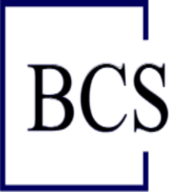
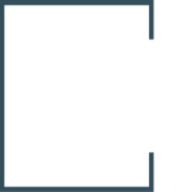
new images

Changed region(s): [[0.125, 0.3125, 0.9062, 0.7188], [0.0, 0.0, 0.8125, 1.0]]

diff --git a/components/main-nav.tsx b/components/main-nav.tsx
@@ -21,11 +21,10 @@ interface MobileLinkProps {
 
 const LogoImage = () => (
   <svg xmlns="http://www.w3.org/2000/svg" version="1.1" viewBox="0 0 816.8 651.3" width={80} height={80}>
-    <polyline points="644.1 133.7 644.1 7.8 8.2 7.8 8.2 643.7 644.1 643.7 644.1 517.7" fill="none" stroke="#030063" strokeWidth={20}/>
+    <polyline points="644.1 133.7 644.1 7.8 8.2 7.8 8.2 643.7 644.1 643.7 644.1 517.7" fill="none" stroke="#334f5b" strokeWidth={20}/>
     <path className="dark:fill-white" d="M130.4,198.1h128.9c25.3,0,44.7,5.6,58.1,16.7,13.4,11.1,20.1,25.1,20.1,41.9s-4.7,25.9-14,35.7c-9.4,9.8-23.5,17.5-42.3,23.2,23.3,4.9,40.8,12.6,52.4,23.2,11.6,10.5,17.5,23.8,17.5,39.9s-3.3,23.1-9.9,32.6c-6.6,9.5-17.7,17.5-33.1,24.1-15.4,6.6-33,9.9-52.6,9.9h-125.1v-12.5h20.4c6.1,0,10.6-1,13.5-3,2.8-2,4.3-4.3,4.3-6.9v-198.1c0-4.7-1.4-8.2-4.2-10.6-2.8-2.4-6.9-3.6-12.2-3.6h-21.7v-12.5ZM204.3,311.6h46.8c14.4,0,25.8-4.2,34.4-12.7,8.5-8.5,12.8-22.3,12.8-41.6s-2-21.2-6.1-27.9c-4.1-6.7-10-11.5-17.7-14.6-7.7-3.1-21.1-4.6-40.2-4.6s-21.8,1-25.1,2.9c-3.2,1.9-4.8,5.4-4.8,10.3v88.1ZM204.3,324.2v95.3c0,4.5,1.3,7.8,3.9,10,2.6,2.2,7.3,3.3,14.1,3.3h29.9c19.8,0,34.5-4.4,44-13.1,9.5-8.7,14.2-22.4,14.2-40.9s-4.9-30.3-14.7-40c-9.8-9.8-23.4-14.6-40.6-14.6h-50.8Z" />
     <path className="dark:fill-white" d="M559.6,217.3l11.5-23.9h10.5l4.3,99.5h-11.2c-7.4-28-16.6-48.6-27.8-61.9-13.8-16.6-30.3-24.9-49.5-24.9s-37.6,9.3-50.7,27.8c-13,18.5-19.6,49.8-19.6,94s7.5,65.4,22.4,84.9c12.7,16.5,30.5,24.7,53.5,24.7s36.9-6.4,50.5-19.3c13.6-12.9,22.5-32.3,26.6-58.3h11.9c-3.5,29.4-13.5,52.1-30.3,67.9-16.7,15.8-37.8,23.7-63.2,23.7s-39.5-5.2-56.8-15.5c-17.2-10.4-31-25.3-41.3-44.7-10.3-19.4-15.5-40.8-15.5-63.9s5.3-47.8,16-69.4c10.6-21.6,24.3-37.9,40.9-48.7,16.6-10.9,34.5-16.3,53.7-16.3s21.1,1.8,31.1,5.5c10,3.7,21,10,32.8,18.9Z" />
     <path className="dark:fill-white" d="M767.1,216.8l15-21.6h12.2l1,90.1h-11c-6.9-27.6-17.1-47.8-30.7-60.5-13.5-12.7-29.1-19.1-46.7-19.1s-26.7,4.4-36.1,13.2c-9.4,8.8-14,19.6-14,32.3s1.8,14.9,5.3,20.8c3.6,6,8.9,10.8,16,14.6,7.1,3.7,20.4,7.7,40,11.9,27.5,6,46.9,12,57.9,18.2,11.1,6.1,19.4,13.9,24.8,23.2,5.5,9.3,8.2,20.2,8.2,32.7,0,22.3-7.5,40.8-22.5,55.4-15,14.7-34.4,22-58.1,22s-47.7-8.2-66.5-24.7l-18.9,23.1h-12v-95.8h12c4.7,26.4,15.2,47.3,31.4,62.5,16.3,15.3,34.6,22.9,55,22.9s30-4.9,40.4-14.6c10.4-9.8,15.6-21.6,15.6-35.5s-2-14.9-5.9-20.8c-3.9-6-10.1-11-18.6-15-8.5-4.1-25.1-9-50-14.8-27.3-6.5-45.9-13.7-55.8-21.7-13.9-11.4-20.9-27.5-20.9-48.3s6.9-39.5,20.8-53.4c13.9-13.9,31.6-20.8,53.2-20.8s20.2,1.8,29.6,5.5,19.1,9.8,29.1,18.4Z" />
-
   </svg>
 )
 

diff --git a/app/globals.css b/app/globals.css
@@ -15,7 +15,7 @@ body {
     --popover: 0 0% 94%;
     --popover-foreground: 20 14.3% 14.1%;
     /* --primary: 207 90% 73%; */
-    --primary: 242 63.5% 19.4%;
+    --primary: 198 28% 28%;
     --primary-foreground: 26 83.3% 14.1%;
     --secondary: 60 4.8% 91%;
     --secondary-foreground: 24 9.8% 10%;
@@ -44,7 +44,7 @@ body {
     --card-foreground: 60 9.1% 90%;
     --popover: 20 14.3% 16.1%;
     --popover-foreground: 60 9.1% 90%;
-    --primary: 242 63.5% 19.4%;
+    --primary: 198 28% 28%;
     --primary-foreground: 26 83.3% 14.1%;
     --secondary: 12 6.5% 20.1%;
     --secondary-foreground: 60 9.1% 90%;
